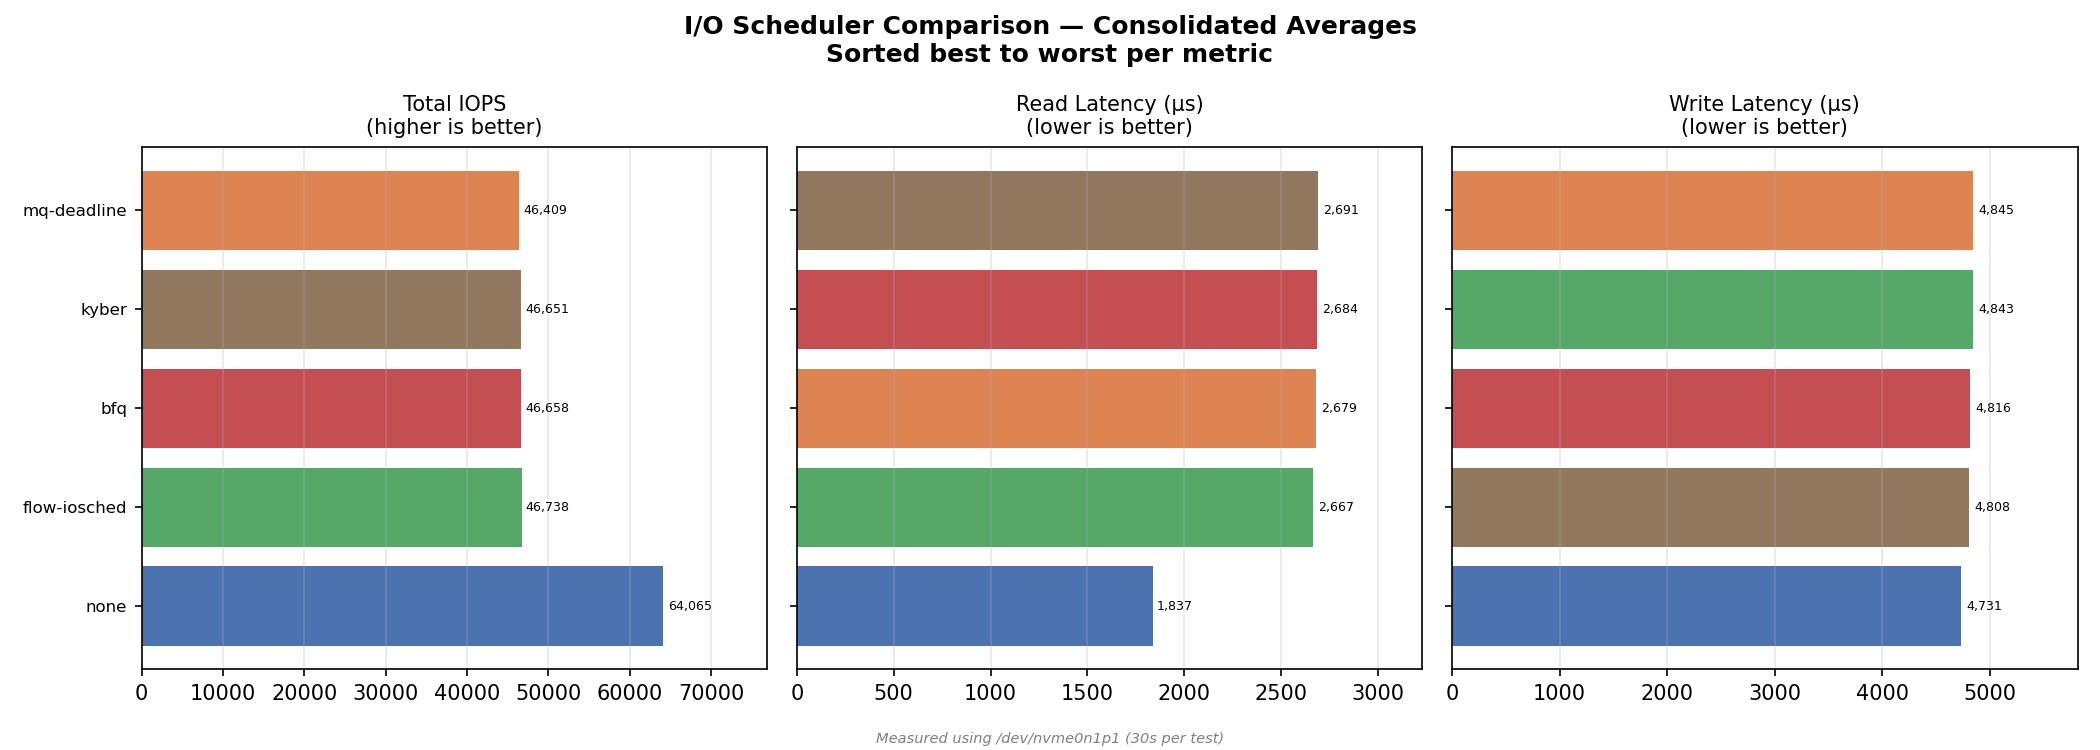
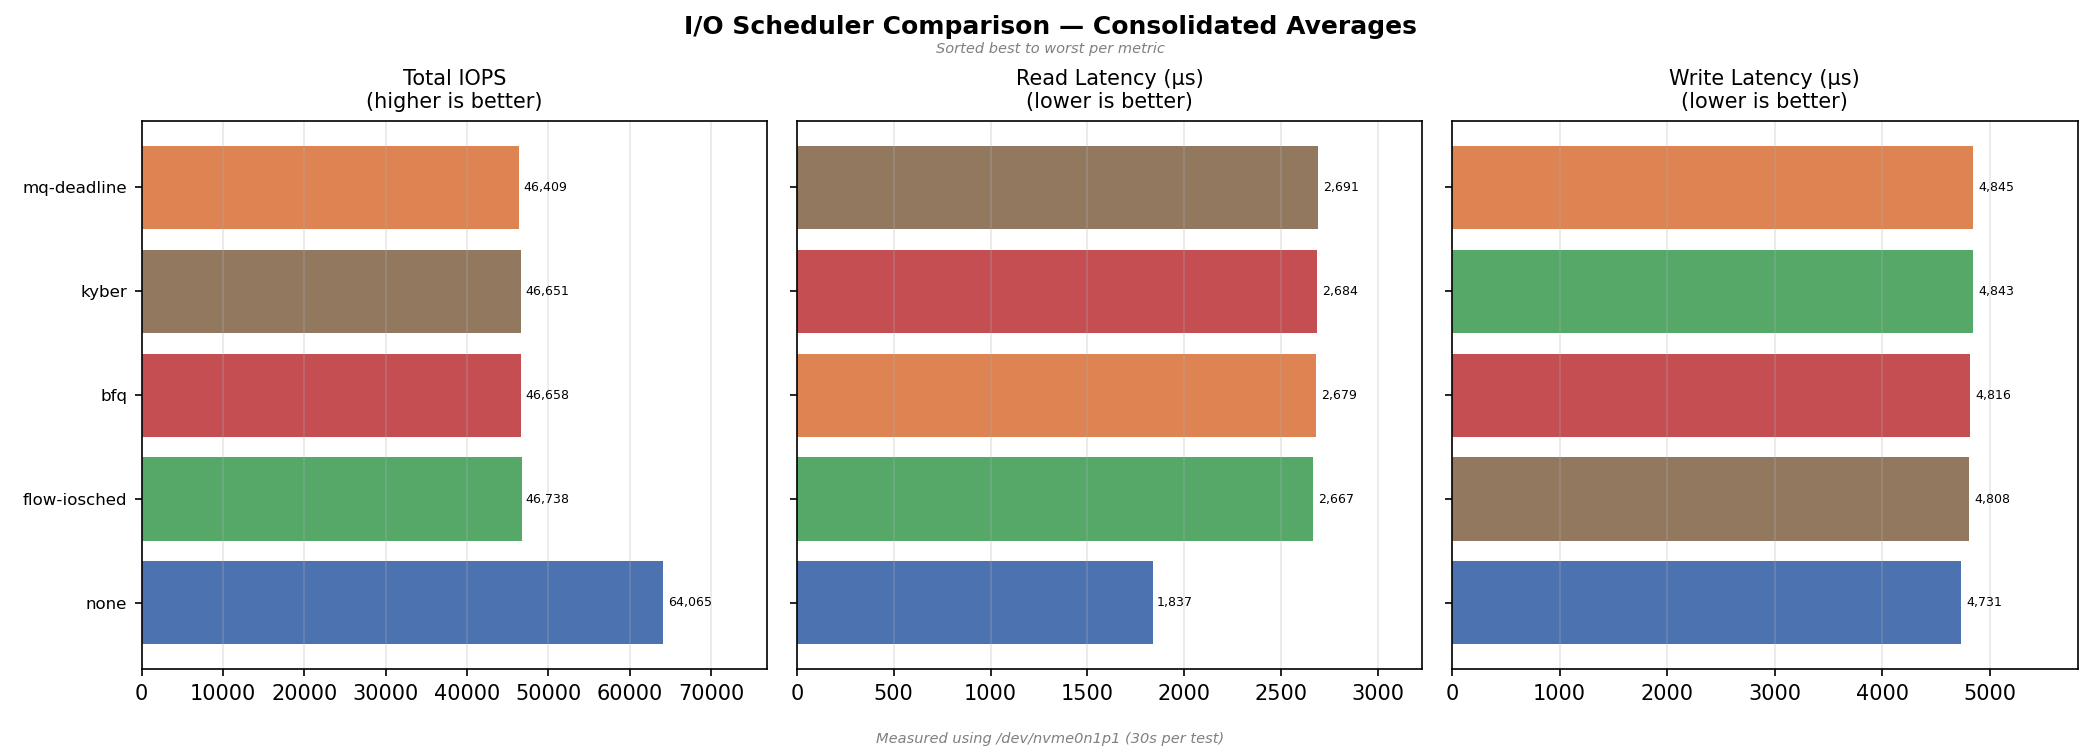
plot: sorting notes in grey italic below titles, consistent best-to-worst across all charts

diff --git a/bench-tests/plot-results.py b/bench-tests/plot-results.py
@@ -109,6 +109,10 @@ def add_measurement_label(fig):
         fig.text(0.5, 0.01, MEASUREMENT_LABEL, ha="center",
                  fontsize=7, style="italic", color="gray")
 
+def add_sorting_note(fig, note, y=0.92):
+    """Add a gray italic sorting note below the main title."""
+    fig.text(0.5, y, note, ha="center", fontsize=7, style="italic", color="gray")
+
 def annotate_bars(ax, bars, values, pad_ratio=0.02):
     """Annotate each bar with its value, offset slightly to the right."""
     max_val = max(abs(v) for v in values) if values else 1
@@ -147,7 +151,8 @@ for i, sched in enumerate(sched_order_iops):
     annotate_bars(ax, bars, vals)
 
 ax.set_ylabel("Total IOPS")
-ax.set_title("I/O Scheduler Comparison — Total IOPS (higher is better)")
+ax.set_title("I/O Scheduler Comparison — Total IOPS")
+add_sorting_note(fig, "Sorted best to worst by average total IOPS (higher is better)")
 ax.set_xticks(x + width * (len(schedulers) - 1) / 2)
 ax.set_xticklabels(wl_labels)
 ax.legend(loc="upper center", bbox_to_anchor=(0.5, -0.08), ncol=len(schedulers), fontsize=7)
@@ -185,7 +190,8 @@ for i, sched in enumerate(sched_order_lat):
     # annotate_bars(ax, bars, vals)
 
 ax.set_ylabel("Read latency (µs)")
-ax.set_title("I/O Scheduler Comparison — Read Latency (lower is better)")
+ax.set_title("I/O Scheduler Comparison — Read Latency")
+add_sorting_note(fig, "Sorted best to worst by average read latency (lower is better)")
 ax.set_xticks(x + width * (len(schedulers) - 1) / 2)
 ax.set_xticklabels(wl_labels)
 # Annotate write-only workloads (no read latency to show)
@@ -229,7 +235,8 @@ for wi, wl in enumerate(workloads):
     for bar, val in zip(bars, iops):
         ax.text(bar.get_width() * 1.01, bar.get_y() + bar.get_height() / 2,
                 fmt_val(val), va="center", fontsize=7)
-fig.suptitle("Per-Workload IOPS — Higher is Better", fontsize=12)
+fig.suptitle("Per-Workload IOPS", fontsize=12)
+add_sorting_note(fig, "Sorted best to worst per workload (higher is better)", y=0.90)
 fig.tight_layout(rect=[0, 0.03, 1, 1])
 add_measurement_label(fig)
 fig.savefig(f"{CHARTS}/per_workload.png", dpi=150)
@@ -291,8 +298,9 @@ for ax_i, (title, direction, extractor, qualifies) in enumerate(metrics):
         ax.text(bar.get_width() * 1.01, bar.get_y() + bar.get_height() / 2,
                 fmt_val(val), va="center", fontsize=6)
 
-fig.suptitle("I/O Scheduler Comparison — Consolidated Averages\nSorted best to worst per metric",
+fig.suptitle("I/O Scheduler Comparison — Consolidated Averages",
              fontsize=12, fontweight="bold")
+add_sorting_note(fig, "Sorted best to worst per metric", y=0.93)
 fig.tight_layout(rect=[0, 0.03, 1, 1])
 add_measurement_label(fig)
 fig.savefig(f"{CHARTS}/comparison.png", dpi=150)
